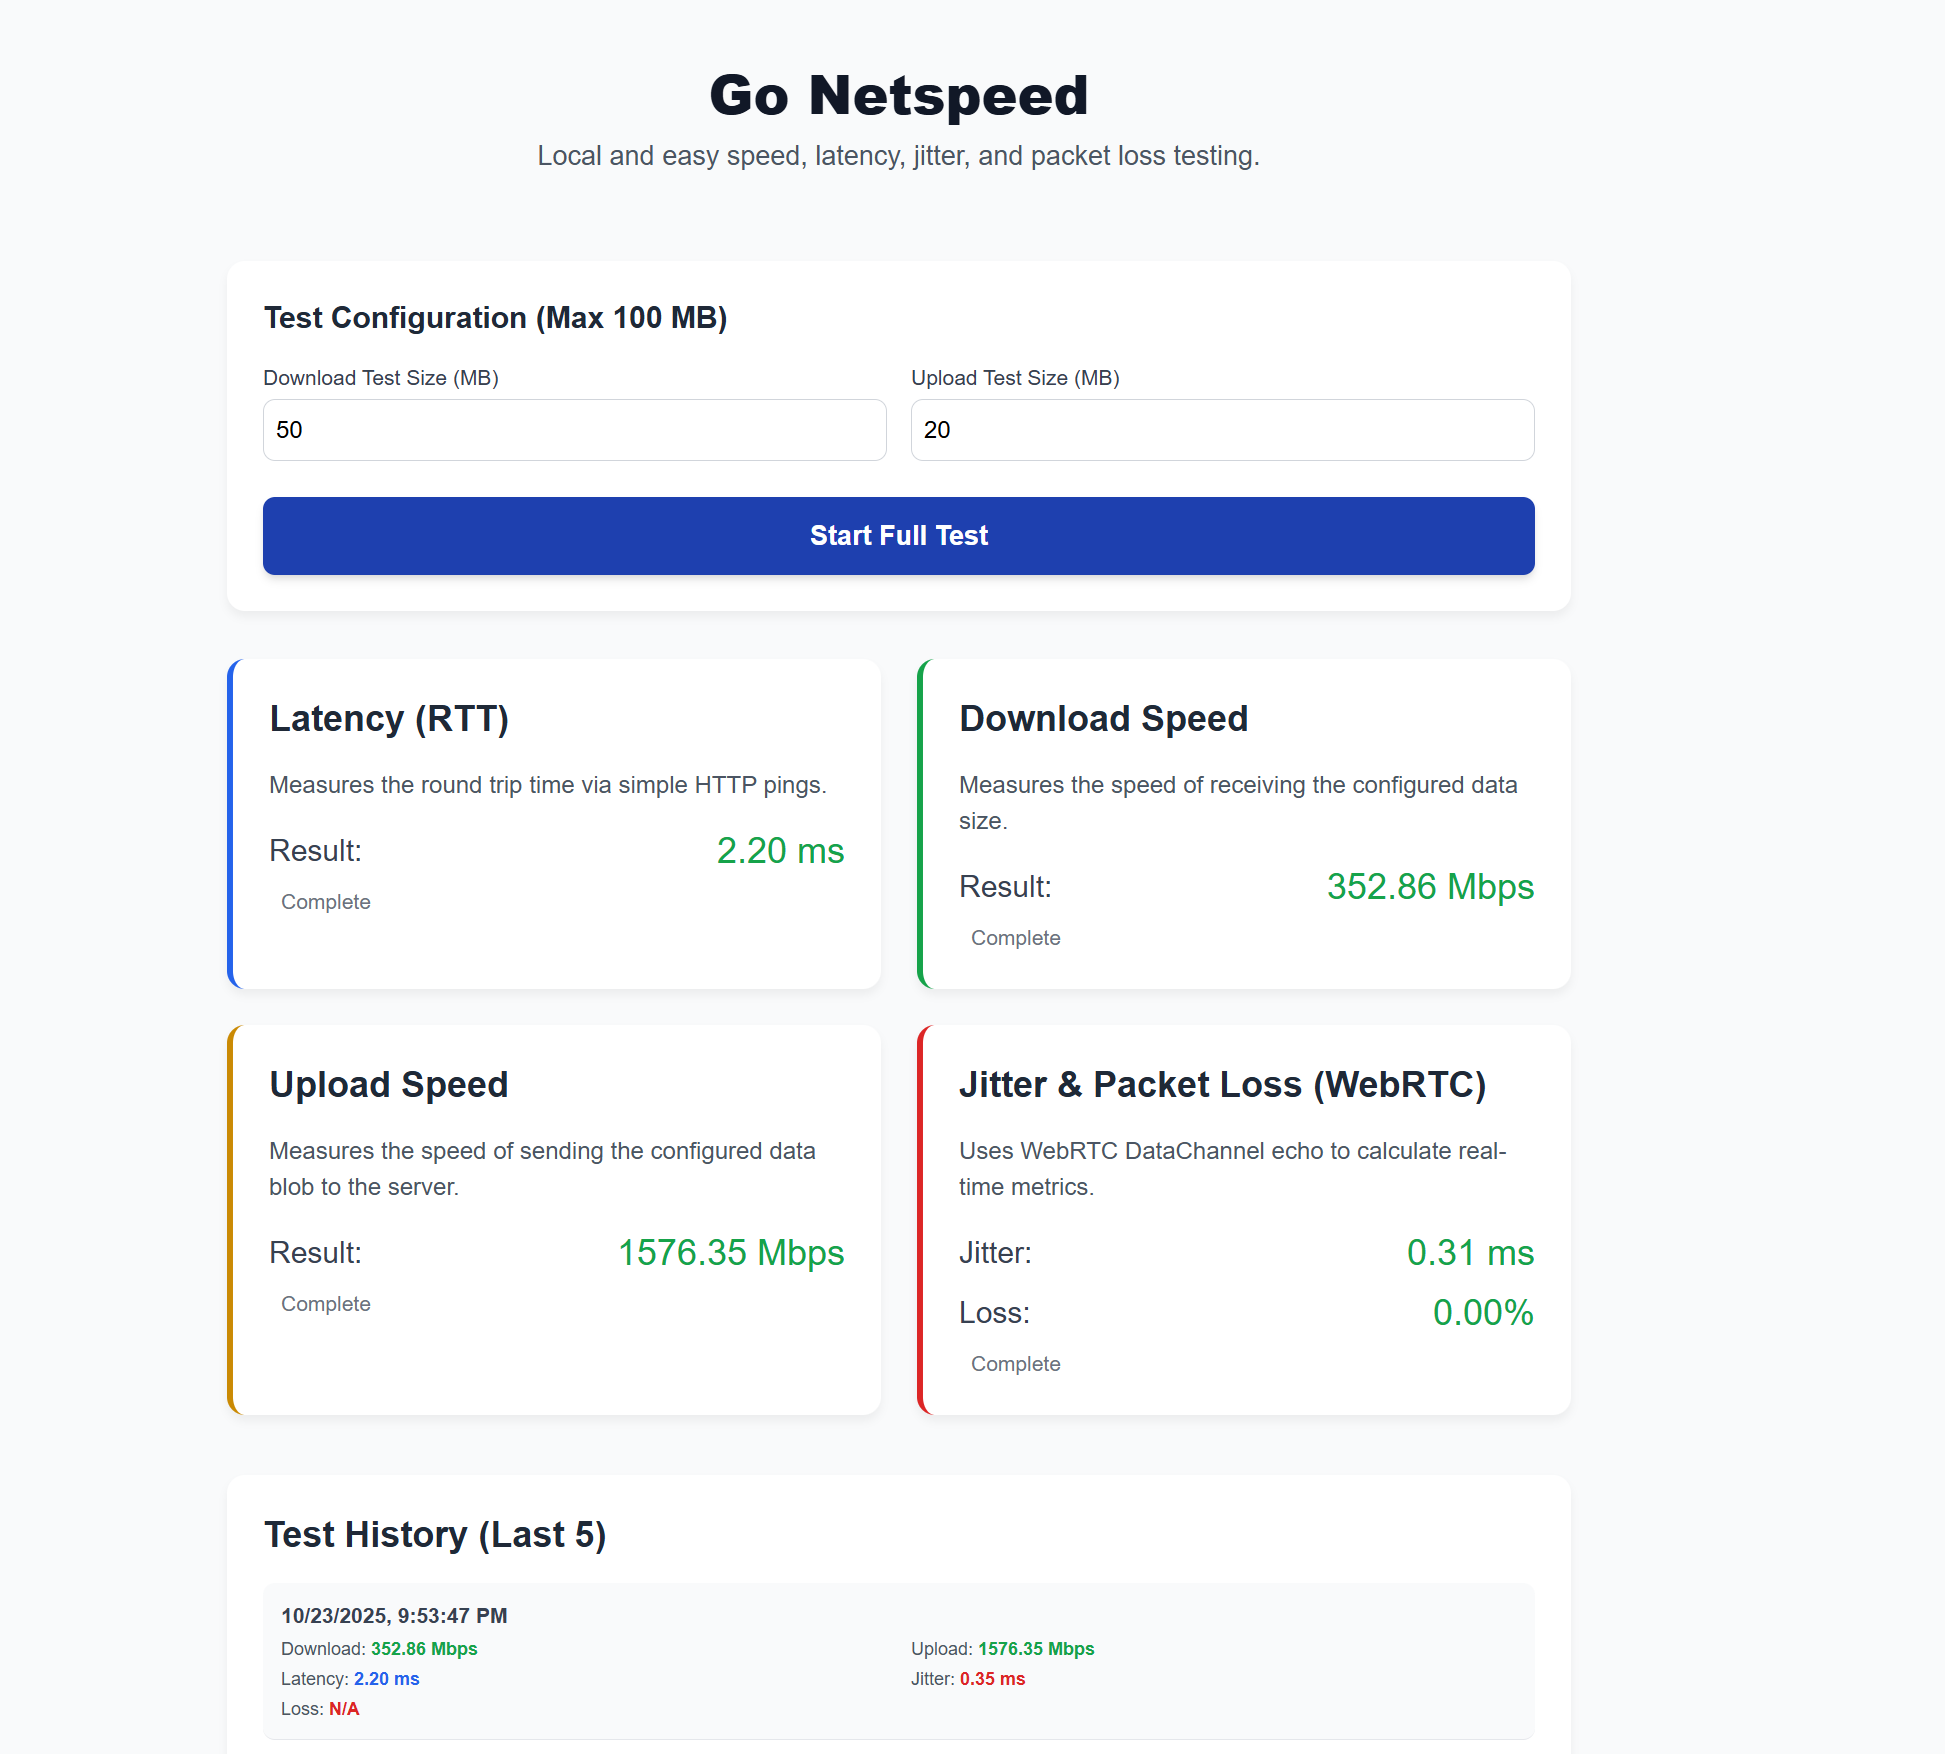
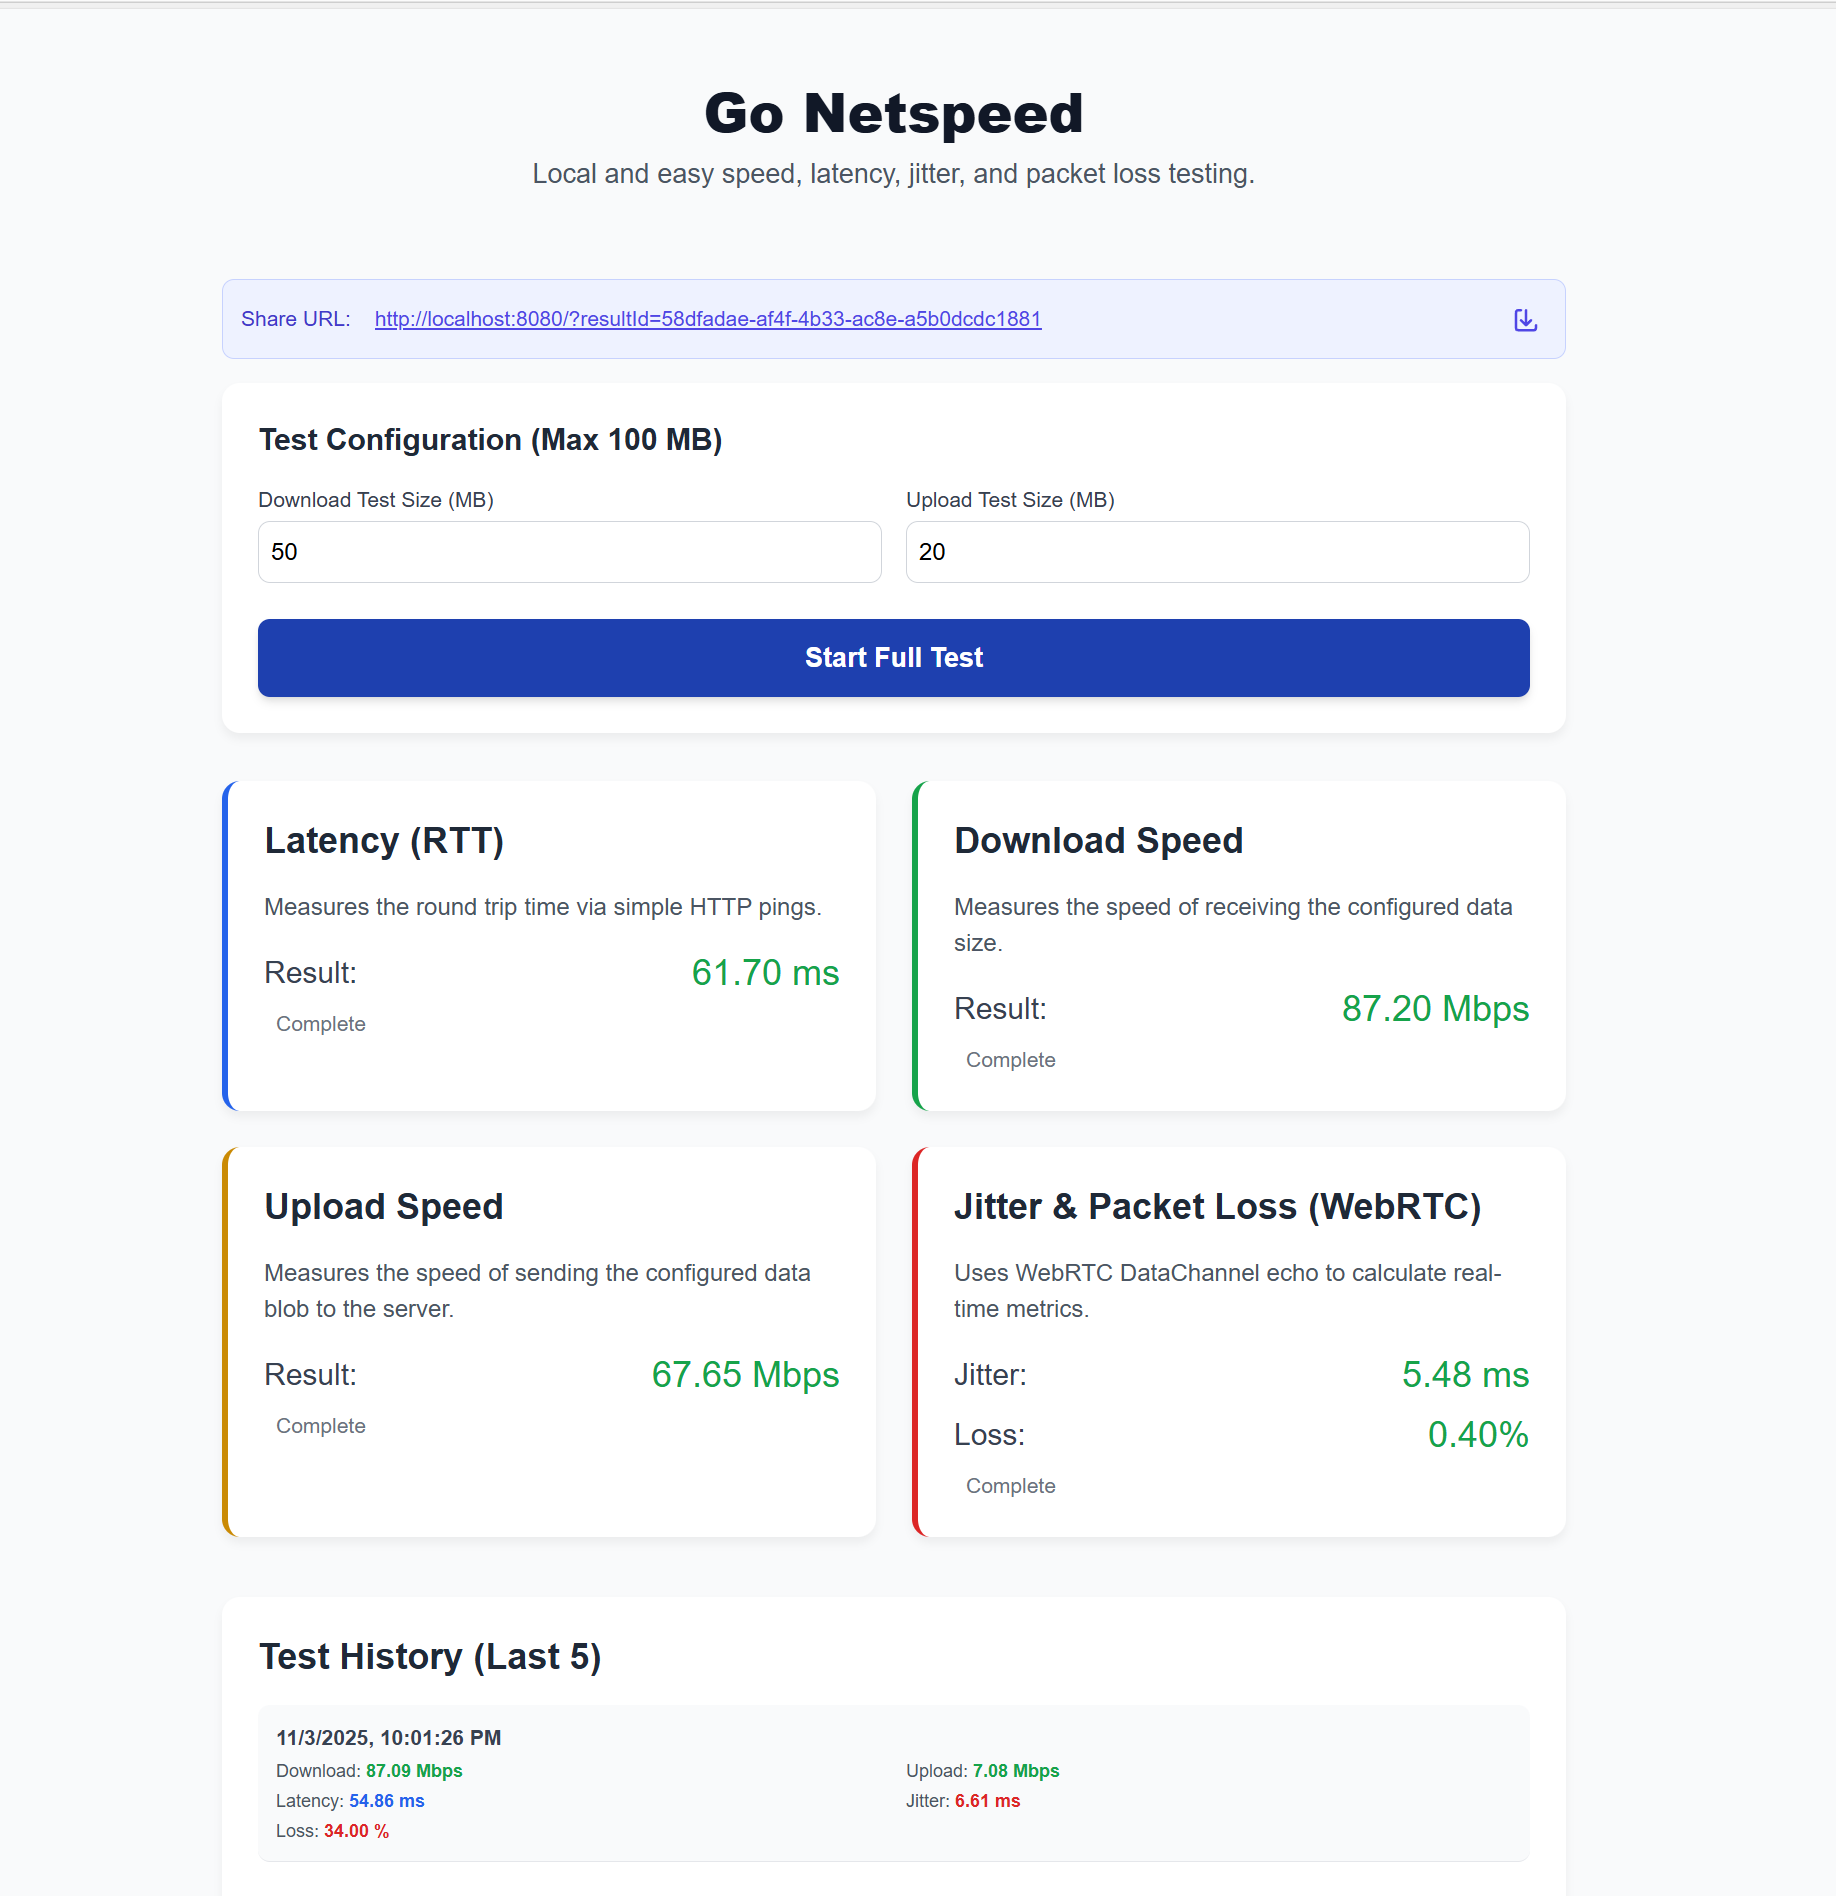
Update README to include badger data and new screenshot. Update js file to more correctly handle packet loss.

diff --git a/static/speedtest.js b/static/speedtest.js
@@ -13,8 +13,9 @@ const WEBRTC_CONFIG = {
         { urls: 'stun:stun.l.google.com:19302' }
     ]
 };
-const NUM_PACKETS = 50; // Decreased from 100 to 50
-const PACKET_INTERVAL = 50; // Decreased from 100 ms to 50 ms
+const NUM_PACKETS = 250; 
+const PACKET_INTERVAL = 40; // ms
+const MAX_WAIT_BUFFER = 1000; //ms
 
 // History Constants
 const HISTORY_KEY = 'networkTestHistory';
@@ -445,6 +446,14 @@ function runWebRTCTest() {
         const sendPacket = () => {
             if (packetCounter >= NUM_PACKETS) {
                 clearInterval(intervalId);
+                console.log("All packets sent");
+                //Wait a max period of time for all packets to be received
+                 setTimeout(function(){
+                                clearInterval(intervalId);
+                                dc.close();
+                                console.log("Calculating jitter - timeout reached");
+                                calculateJitterLoss(receivedTimestamps, packetCounter);
+                    },(Date.now() -(startTestTime + NUM_PACKETS * PACKET_INTERVAL + MAX_WAIT_BUFFER)))
                 return;
             }
             const payload = JSON.stringify({
@@ -453,14 +462,16 @@ function runWebRTCTest() {
             });
             dc.send(payload); 
             packetCounter++;
+            updateStatus('jitter-status', 'Connection established. Sending packets...'+packetCounter+'/'+NUM_PACKETS, true);
         };
         
         // Start sending packets
         intervalId = setInterval(sendPacket, PACKET_INTERVAL);
-        
+       
         // Handle echo response from Go server
         dc.onmessage = (event) => {
             receivedCounter++;
+            
             try {
                 const rawData = event.data;
                 let dataString;
@@ -478,10 +489,11 @@ function runWebRTCTest() {
                 receivedTimestamps.push(rtt);
 
                 // Check for test completion
-                // The new timeout is: (50 * 50) + 2000 = 4500 ms
-                if (receivedCounter >= NUM_PACKETS || (packetCounter >= NUM_PACKETS && Date.now() - startTestTime > (NUM_PACKETS * PACKET_INTERVAL + 2000))) {
+                // The new timeout is: (250 * 40) + 1000 = 11000 ms
+                if ((receivedCounter >= NUM_PACKETS) || (packetCounter >= NUM_PACKETS && Date.now() - startTestTime > (NUM_PACKETS * PACKET_INTERVAL + MAX_WAIT_BUFFER))) {
                     clearInterval(intervalId);
                     dc.close();
+                    console.log("Calculating jitter");
                     calculateJitterLoss(receivedTimestamps, packetCounter);
                 }
 

diff --git a/README.md b/README.md
@@ -15,5 +15,6 @@ A single file speedtest utility, allowing for a quick test of speed between a se
 | chunksize  |  Download chunk size in bytes, lower it for lower RAM utilization | 1048576 |
 | webrtc-min-port  | Min port for WebRTC connections. Useful for docker. | 0 |
 | webrtc-max-port  | Max port for WebRTC connections. Useful for docker.  | 0 |
+| badger-path | What folder to store the database of shared results | badger_data |
 | verbose  |  Pass -verbose to get connection messages | false |
 
